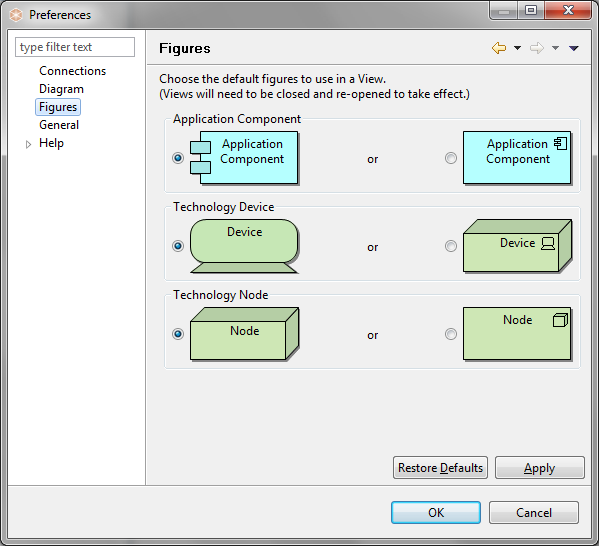
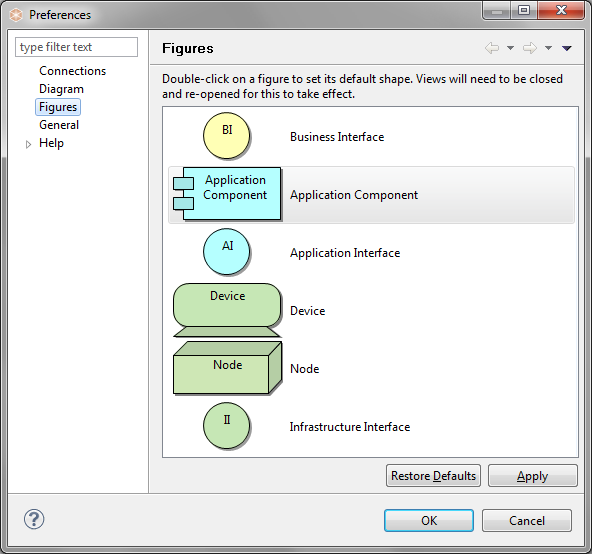
Update Help files with new features

diff --git a/uk.ac.bolton.archimate.help/help/new_model.html b/uk.ac.bolton.archimate.help/help/new_model.html
@@ -13,7 +13,7 @@ The &quot;New&quot; button</p>
 <p> A model entitled &quot;(new model)&quot; will be created and visible  in the <strong>Models </strong>Tree window with the &quot;Default  View&quot; open with a blank drawing canvas and palette:</p>
 <p class="caption"><img width="700" height="527" src="img/new-model.png"><br>
 The default Archi workspace with a new model created</p>
-<p>Note that the model is named by default &quot;(new model)&quot;. You  may change this by selecting it in the Model Tree and editing the name in the  <a href="properties_window.html">Properties Window</a>. You may also add a &quot;Purpose&quot; here in the Properties Window describing  the purpose and aims of the model.<br>
+<p>Note that the model is named by default &quot;(new model)&quot;. You  may change this by renaming it directly in the Model Tree or selecting it in the Model Tree and editing the name in the  <a href="properties_window.html">Properties Window</a>. You may also add a &quot;Purpose&quot; here in the Properties Window describing  the purpose and aims of the model.<br>
   <br>
   Note also that one &quot;View&quot; has automatically been created for the model and named  &quot;<em>Default View</em>&quot; and is placed in the  &quot;Views&quot; folder in the Model Tree. If the View is not open (i.e. visible with  blank drawing canvas and palette) you can open it by double-clicking on it in  the Model Tree. Doing so will open the View (diagram) editor to the right. If  you wish to rename the View, simply select it on the Model Tree and edit the name  in the Properties Window.</p>
 <p>The <strong>Models</strong> window  can display more than one Model Tree which means that you can work on more than  one model at the same time.</p>

diff --git a/uk.ac.bolton.archimate.help/help/properties_relation.html b/uk.ac.bolton.archimate.help/help/properties_relation.html
@@ -21,6 +21,13 @@
 <p class="caption"><img src="img/properties_relation1.png" width="673" height="268"><br>
 Editing the &quot;Main&quot; Properties for an ArchiMate Relationship</p>
 <p class="boxout"><img src="img/tip.png" width="13" height="18"> In the &quot;Documentation&quot; text control, URLs that start with &quot;http://&quot; &quot;https://&quot; or &quot;ftp://&quot; will show as a hyperlink. Pressing the Ctrl / Command key will change the cursor to a &quot;hand&quot; cursor and you can open the link in a Browser.</p>
+<p>The <strong>Access</strong> relationship type has an additional property:</p>
+<table width="100%" border="0">
+  <tr>
+    <td width="20%" valign="top"><strong>Access Type:</strong></td>
+    <td width="80%" valign="top">Can be set to &quot;Access&quot;, &quot;Read&quot;, &quot;Write&quot; or &quot;Read/Write&quot;. Setting this also changes the connection's arrow-heads.</td>
+  </tr>
+</table>
 <p>&nbsp;</p>
 <p>The <strong><em>Analysis</em></strong> tab:</p>
 <table width="100%" border="0">

diff --git a/uk.ac.bolton.archimate.help/help/prefs_general.html b/uk.ac.bolton.archimate.help/help/prefs_general.html
@@ -6,13 +6,15 @@
 
 <body>
 <h1>General  Preferences</h1>
-<p class="caption"><img src="img/prefs_general.png" width="595" height="343"><br>
+<p class="caption"><img src="img/prefs_general.png" width="592" height="343"><br>
 General Preferences</p>
 <p>&nbsp;</p>
 <h2>Files</h2>
 <p><strong>Automatically open Views in a Model when opening from file</strong><br>
 When opening a Model from a file, choose whether to automatically open all the Views in the model.</p>
-<p>&nbsp;</p>
+<p><strong>Size of recently opened file list</strong><br>
+Set the cached sized of the recently opened file list in the &quot;File-&gt;Open Recent&quot; menu. Can be set from 3 - 15.</p>
+<p></p>
 <h2>Model Tree</h2>
 <p><strong>Show empty folders when filtering and searching</strong><br>
 When the search and filter is active in the  Model Tree if enabled ensures that empty folders are not hidden from the search.</p>

diff --git a/uk.ac.bolton.archimate.help/help/model_tree_folders.html b/uk.ac.bolton.archimate.help/help/model_tree_folders.html
@@ -39,6 +39,7 @@
 <p>User sub-folders can be created under the main top-level  folders. This allows you to organise the elements in any way you wish. To add a  new sub-folder to the Model Tree, select a top-level folder (or a user-created  sub-folder), and right-click. A &quot;New&quot; menu item allows you to add a new  sub-folder to the tree.</p>
 <p>Note that a sub-folder can only contain elements of the same  type as the topmost parent folder. For example, only &quot;Business&quot; type elements  can be created in the &quot;Business&quot; folder and any of its sub-folders.</p>
 <p>You  can also drag and drop elements and sub-folders within the same folder branch,  but not across folders of different types.</p>
+<p>To rename a sub-folder in the Model Tree choose &quot;Rename&quot; from the main Edit menu or from the right-click context menu.</p>
 <p>&nbsp;</p>
 </body>
 </html>

diff --git a/uk.ac.bolton.archimate.help/help/model_tree_working.html b/uk.ac.bolton.archimate.help/help/model_tree_working.html
@@ -11,6 +11,9 @@
 <p class="caption"><img width="532" height="165" src="img/delete_warning.png"><br>
 Warning about deleting an element</p>
 <p>&nbsp;</p>
+<h2>Renaming an Element in the Model Tree</h2>
+<p>To rename an element or  relationship in the Model Tree choose &quot;Rename&quot; from the main Edit menu or from the right-click context menu.</p>
+<p>&nbsp;</p>
 <h2>Editing Properties for an Element in the Model Tree</h2>
 <p>To edit the Properties for a selected element or  relationship in the Model Tree, select the tree node and open the Properties Window  either by double-clicking the tree node or from the main &ldquo;Window&rdquo; menu or main toolbar.</p>
 <p>Each element in the Model Tree has different properties that  can be set or viewed in the Properties Window. For more information see the  section, <a href="properties_window.html">The Properties Window</a>.</p>

diff --git a/uk.ac.bolton.archimate.help/help/model_tree_add.html b/uk.ac.bolton.archimate.help/help/model_tree_add.html
@@ -9,6 +9,7 @@
 <p>To add new ArchiMate elements directly to the Model Tree,  select one of the folders, &quot;Business&quot;, &quot;Application&quot;, &quot;Technology&quot; or  &quot;Connectors&quot; and right-click. A &quot;New&quot; menu item allows you to add new elements  to the tree:</p>
 <p class="caption"><img src="img/model-tree-add.png" width="497" height="585"><br>
 Adding a new element directly to the Model Tree</p>
+<p>When the element is added to the Model Tree, the focus is given to the element and you can provide a new name for it.</p>
 <p>Note that it is not possible to add relationships directly  to the Model Tree as these can only be added by drawing them in the View  (diagram) editor window.</p>
 <p>&nbsp;</p>
 </body>

diff --git a/uk.ac.bolton.archimate.help/help/derived_rels.html b/uk.ac.bolton.archimate.help/help/derived_rels.html
@@ -73,6 +73,7 @@ To  add a derived relationship, follow these steps:
 </ol>
 <p>If this is the first time a derived relationship has been  created for that model then a new folder is created in the Model Tree, labelled  &quot;Derived Relations&quot;. The newly created derived relationship is placed  in that folder as are any new ones henceforth. If you wish to delete this  folder you can do so.</p>
 <p>If  a structural relationship already exists directly between element1 and element2  no further derived relationship is allowed. </p>
+<p>If there are too many possible paths to calculate between element1 and element2 then a warning message is displayed and the calculation is aborted.</p>
 <p>&nbsp;</p>
 </body>
 </html>

diff --git a/uk.ac.bolton.archimate.help/help/prefs_figures.html b/uk.ac.bolton.archimate.help/help/prefs_figures.html
@@ -6,11 +6,11 @@
 
 <body>
 <h1>Figures  Preferences</h1>
-<p class="caption"><img src="img/prefs_figures.png" width="599" height="546"><br>
+<p class="caption"><img src="img/prefs_figures.png" width="592" height="554"><br>
 Figures Preferences</p>
 <p>&nbsp;</p>
 <h2>Default Figures</h2>
-<p>Alternate default figures are provided for drawing certain figures in diagram Views.</p>
+<p>Alternate default figures are provided for drawing certain figures in diagram Views. Double-click on a figure to set its default shape. Views will need to be closed and re-opened for this to take effect.</p>
 <p>&nbsp;</p>
 </body>
 </html>
